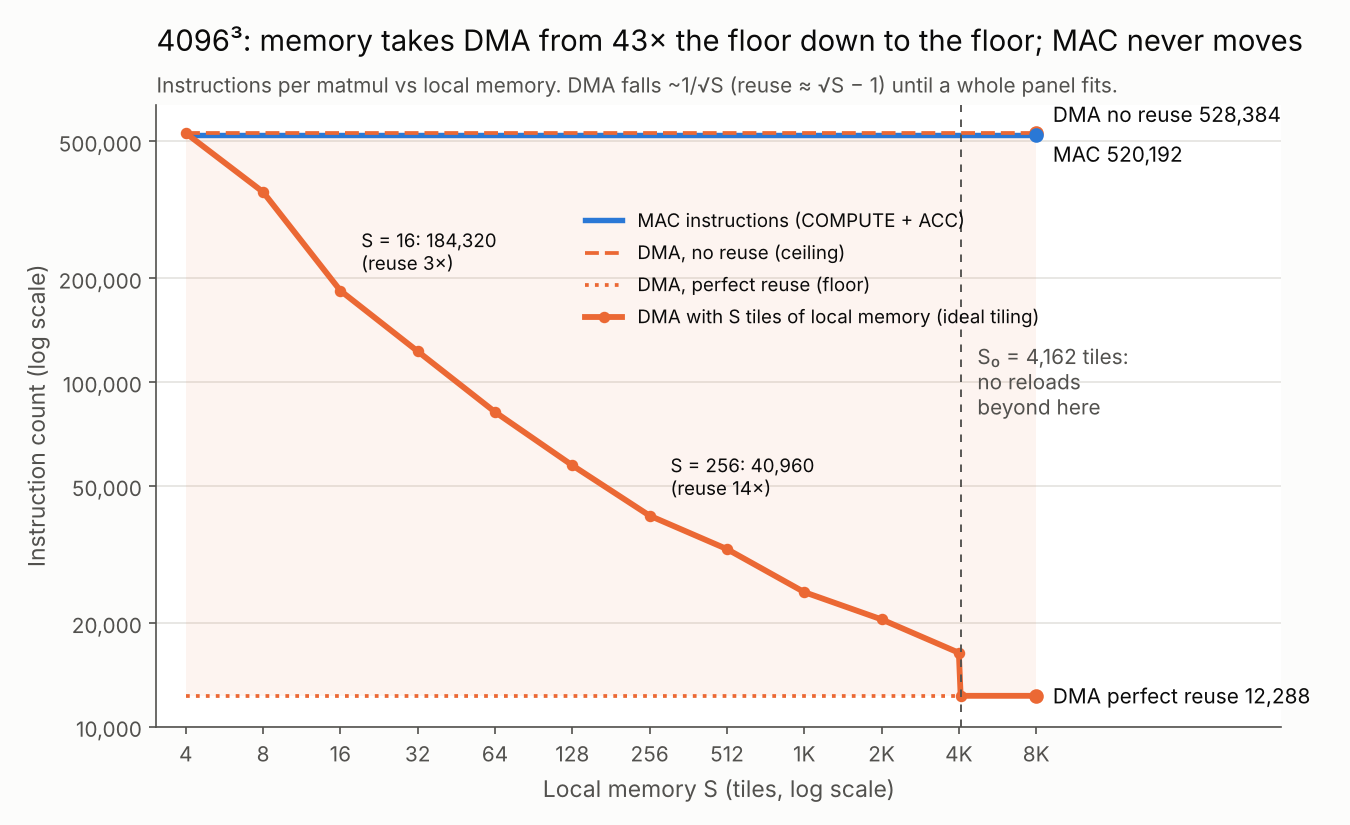
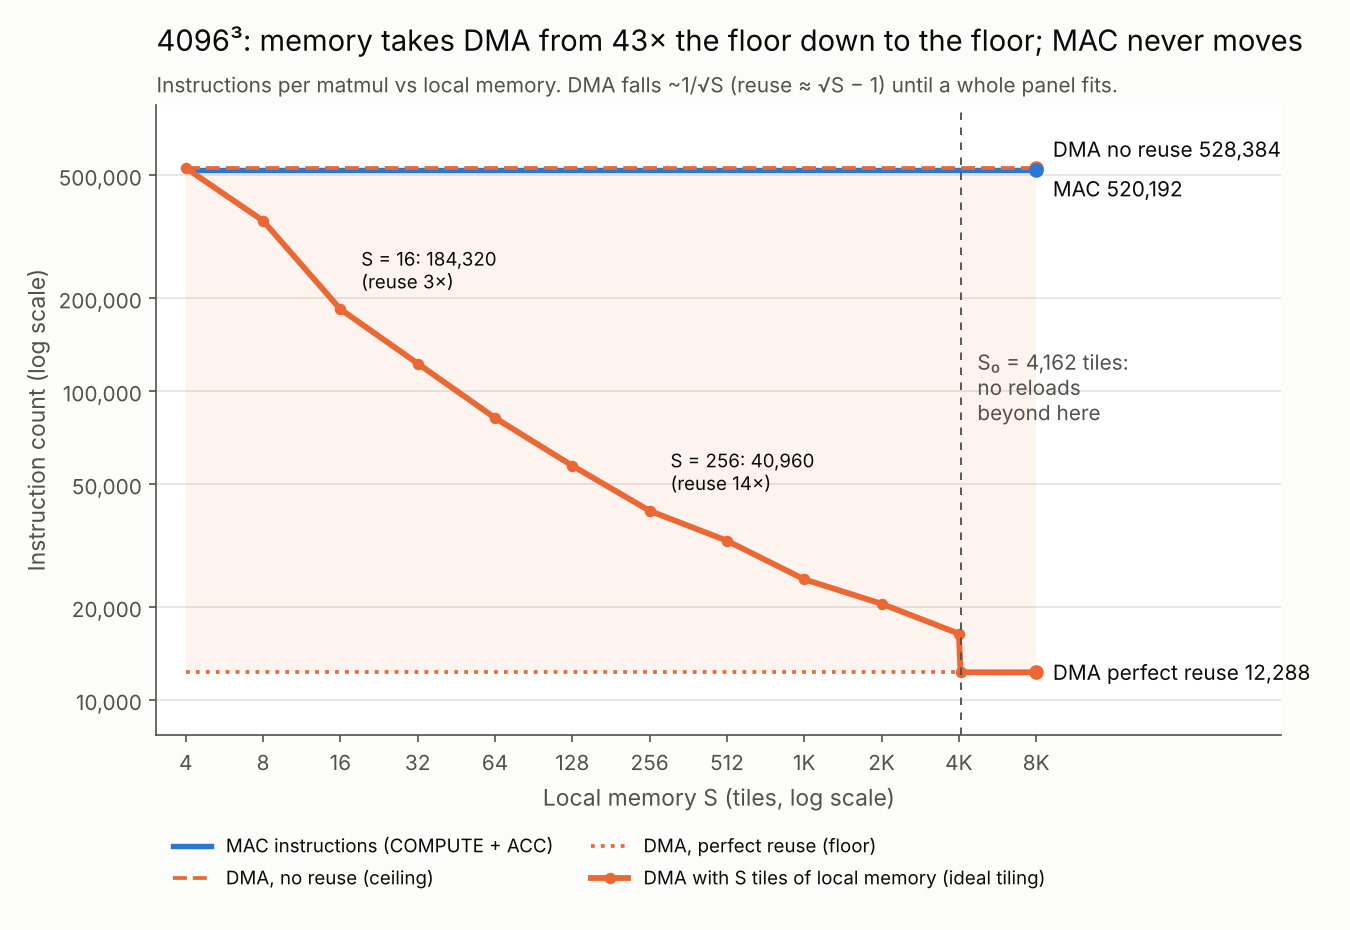
Mathematical_foundation: memory-vs-instructions graphs for 64^3 and 256^3
Handles the flat case (nothing to reuse) in titles and callouts, moves the
legend below the plot so it never covers data.

Claude-Session: https://claude.ai/code/session_01DGvLJ7ZTRfxZ8fmwkevm71

diff --git a/Mathematical_foundation/experiments/02_memory_vs_instructions/run.py b/Mathematical_foundation/experiments/02_memory_vs_instructions/run.py
@@ -48,6 +48,7 @@ def plot(rows, out: Path) -> None:
     S0 = no_reload_memory(N)
     xs = [r["S"] for r in rows]
     fig, ax = new_figure()
+    fig.set_size_inches(9, 6.2)
     ax.fill_between(xs, [r["DMA_perfect_reuse"] for r in rows], [r["DMA_no_reuse"] for r in rows],
                     color=ORANGE, alpha=0.07, linewidth=0)
     ax.plot(xs, [r["MAC_total"] for r in rows], color=BLUE, linewidth=2.6, label="MAC instructions (COMPUTE + ACC)")
@@ -57,9 +58,11 @@ def plot(rows, out: Path) -> None:
             label="DMA, perfect reuse (floor)")
     ax.plot(xs, [r["DMA_at_S"] for r in rows], color=ORANGE, linewidth=2.8, marker="o", markersize=4.5,
             label="DMA with S tiles of local memory (ideal tiling)")
-    ax.axvline(S0, color=INK2, linewidth=0.9, linestyle=(0, (4, 4)))
-    ax.annotate(f"S₀ = {S0:,} tiles:\nno reloads\nbeyond here", (S0, (rows[0]["DMA_no_reuse"] * rows[0]["DMA_perfect_reuse"]) ** 0.5), xytext=(8, 0),
-                textcoords="offset points", ha="left", color=INK2, fontsize=10)
+    if xs[0] < S0 <= xs[-1]:
+        ax.axvline(S0, color=INK2, linewidth=0.9, linestyle=(0, (4, 4)))
+        ax.annotate(f"S\u2080 = {S0:,} tiles:\nno reloads\nbeyond here",
+                    (S0, (rows[0]["DMA_no_reuse"] * rows[0]["DMA_perfect_reuse"]) ** 0.5), xytext=(8, 0),
+                    textcoords="offset points", ha="left", color=INK2, fontsize=10)
     last = rows[-1]
     x_end = xs[-1]
     label_end(ax, x_end, last["DMA_no_reuse"], f"DMA no reuse {last['DMA_no_reuse']:,}", ORANGE, 9)
@@ -67,7 +70,7 @@ def plot(rows, out: Path) -> None:
     label_end(ax, x_end, last["DMA_perfect_reuse"], f"DMA perfect reuse {last['DMA_perfect_reuse']:,}", ORANGE)
     # call out a few points on the curve
     for r in rows:
-        if r["S"] in (16, 256):
+        if r["S"] in (16, 256) and r["DMA_at_S"] > r["DMA_perfect_reuse"] and r["S"] < S0:
             ax.annotate(f"S = {r['S']}: {r['DMA_at_S']:,}\n(reuse {r['reuse_at_S']:.0f}×)", (r["S"], r["DMA_at_S"]),
                         xytext=(10, 10), textcoords="offset points", color=INK, fontsize=9)
     ax.set_xscale("log", base=2)
@@ -77,16 +80,24 @@ def plot(rows, out: Path) -> None:
     ax.set_xticklabels([f"{s:,}" if s < 1000 else f"{s // 1024}K" for s in ticks], fontsize=9)
     ax.set_xlim(xs[0] / 1.3, xs[-1] * 9)
     first = rows[0]
-    frame(ax, f"{N}³: memory takes DMA from {first['DMA_at_S'] / last['DMA_at_S']:.0f}× the floor down to the floor; MAC never moves",
-          "Instructions per matmul vs local memory. DMA falls ~1/√S (reuse ≈ √S − 1) until a whole panel fits.",
-          "Local memory S (tiles, log scale)", "Instruction count (log scale)")
-    lo = min(r["DMA_perfect_reuse"] for r in rows)
-    hi = max(r["DMA_no_reuse"] for r in rows)
+    swing = first["DMA_at_S"] / last["DMA_at_S"]
+    if swing < 1.01:
+        title = (f"{N}\u00b3: nothing to reuse, so memory changes nothing "
+                 f"(DMA {last['DMA_at_S']:,}, MAC {last['MAC_total']:,} at every memory size)")
+        sub = (f"Instructions per matmul vs local memory. The job needs {S0} slots at most; "
+               "every tile is used once, so extra memory sits idle.")
+    else:
+        title = f"{N}\u00b3: memory takes DMA from {swing:.0f}\u00d7 the floor down to the floor; MAC never moves"
+        sub = "Instructions per matmul vs local memory. DMA falls ~1/\u221aS (reuse \u2248 \u221aS \u2212 1) until a whole panel fits."
+    frame(ax, title, sub, "Local memory S (tiles, log scale)", "Instruction count (log scale)")
+    lo = min(min(r["DMA_perfect_reuse"], r["MAC_total"]) for r in rows)
+    hi = max(max(r["DMA_no_reuse"], r["MAC_total"]) for r in rows)
+    ax.set_ylim(lo / 1.6, hi * 1.6)
     yt = [v * 10 ** e for e in range(0, 8) for v in (1, 2, 5) if lo / 1.5 <= v * 10 ** e <= hi * 1.5]
     ax.set_yticks(yt)
     ax.set_yticklabels([f"{v:,.0f}" for v in yt])
     ax.minorticks_off()
-    ax.legend(frameon=False, loc="upper right", bbox_to_anchor=(0.8, 0.86), fontsize=9, labelcolor=INK)
+    ax.legend(frameon=False, loc="upper left", bbox_to_anchor=(0, -0.13), ncol=2, fontsize=9, labelcolor=INK)
     save(fig, out)
 
 

diff --git a/Mathematical_foundation/experiments/02_memory_vs_instructions/README.md b/Mathematical_foundation/experiments/02_memory_vs_instructions/README.md
@@ -12,6 +12,7 @@ included. Run `python run.py` (options: `--size 4096`, `--mem "4;8;...;8192"`).
 |---|---|
 | `outputs/instructions_vs_memory_4096.png` | MAC, DMA no-reuse ceiling, DMA perfect-reuse floor, DMA at each S |
 | `outputs/instructions_vs_memory_4096.csv` | every point, including reuse factor 2mnk/L |
+| `outputs/instructions_vs_memory_64.png`, `_256.png` (+ CSV) | the same for 64³ and 256³ |
 
 **Findings (4096³).**
 
@@ -20,3 +21,13 @@ included. Run `python run.py` (options: `--size 4096`, `--mem "4;8;...;8192"`).
   roughly as 1/√S: 184,320 at S = 16 (reuse 3×), 40,960 at S = 256 (reuse 14×).
 - It reaches the perfect-reuse floor of 12,288 only at S₀ = 4,162 tiles, when a
   whole 64-row panel of A fits. That is a 43× range controlled by memory alone.
+
+**Findings (64³ and 256³).**
+
+- 64³ is a single tile: MAC 1, DMA 3 (A, B, C) at every memory size. There is
+  nothing to reuse, so memory beyond the 3-slot minimum sits idle.
+- 256³ drops from 144 DMA (no reuse) to its floor of 48 by S₀ = 22 tiles, a 3×
+  swing. Small jobs saturate their reuse with very little memory.
+
+Regenerate with `--size 64 --mem "3;4;8;16;32;64;128;256;512"` and
+`--size 256 --mem "4;8;16;32;64;128;256;512"`.
